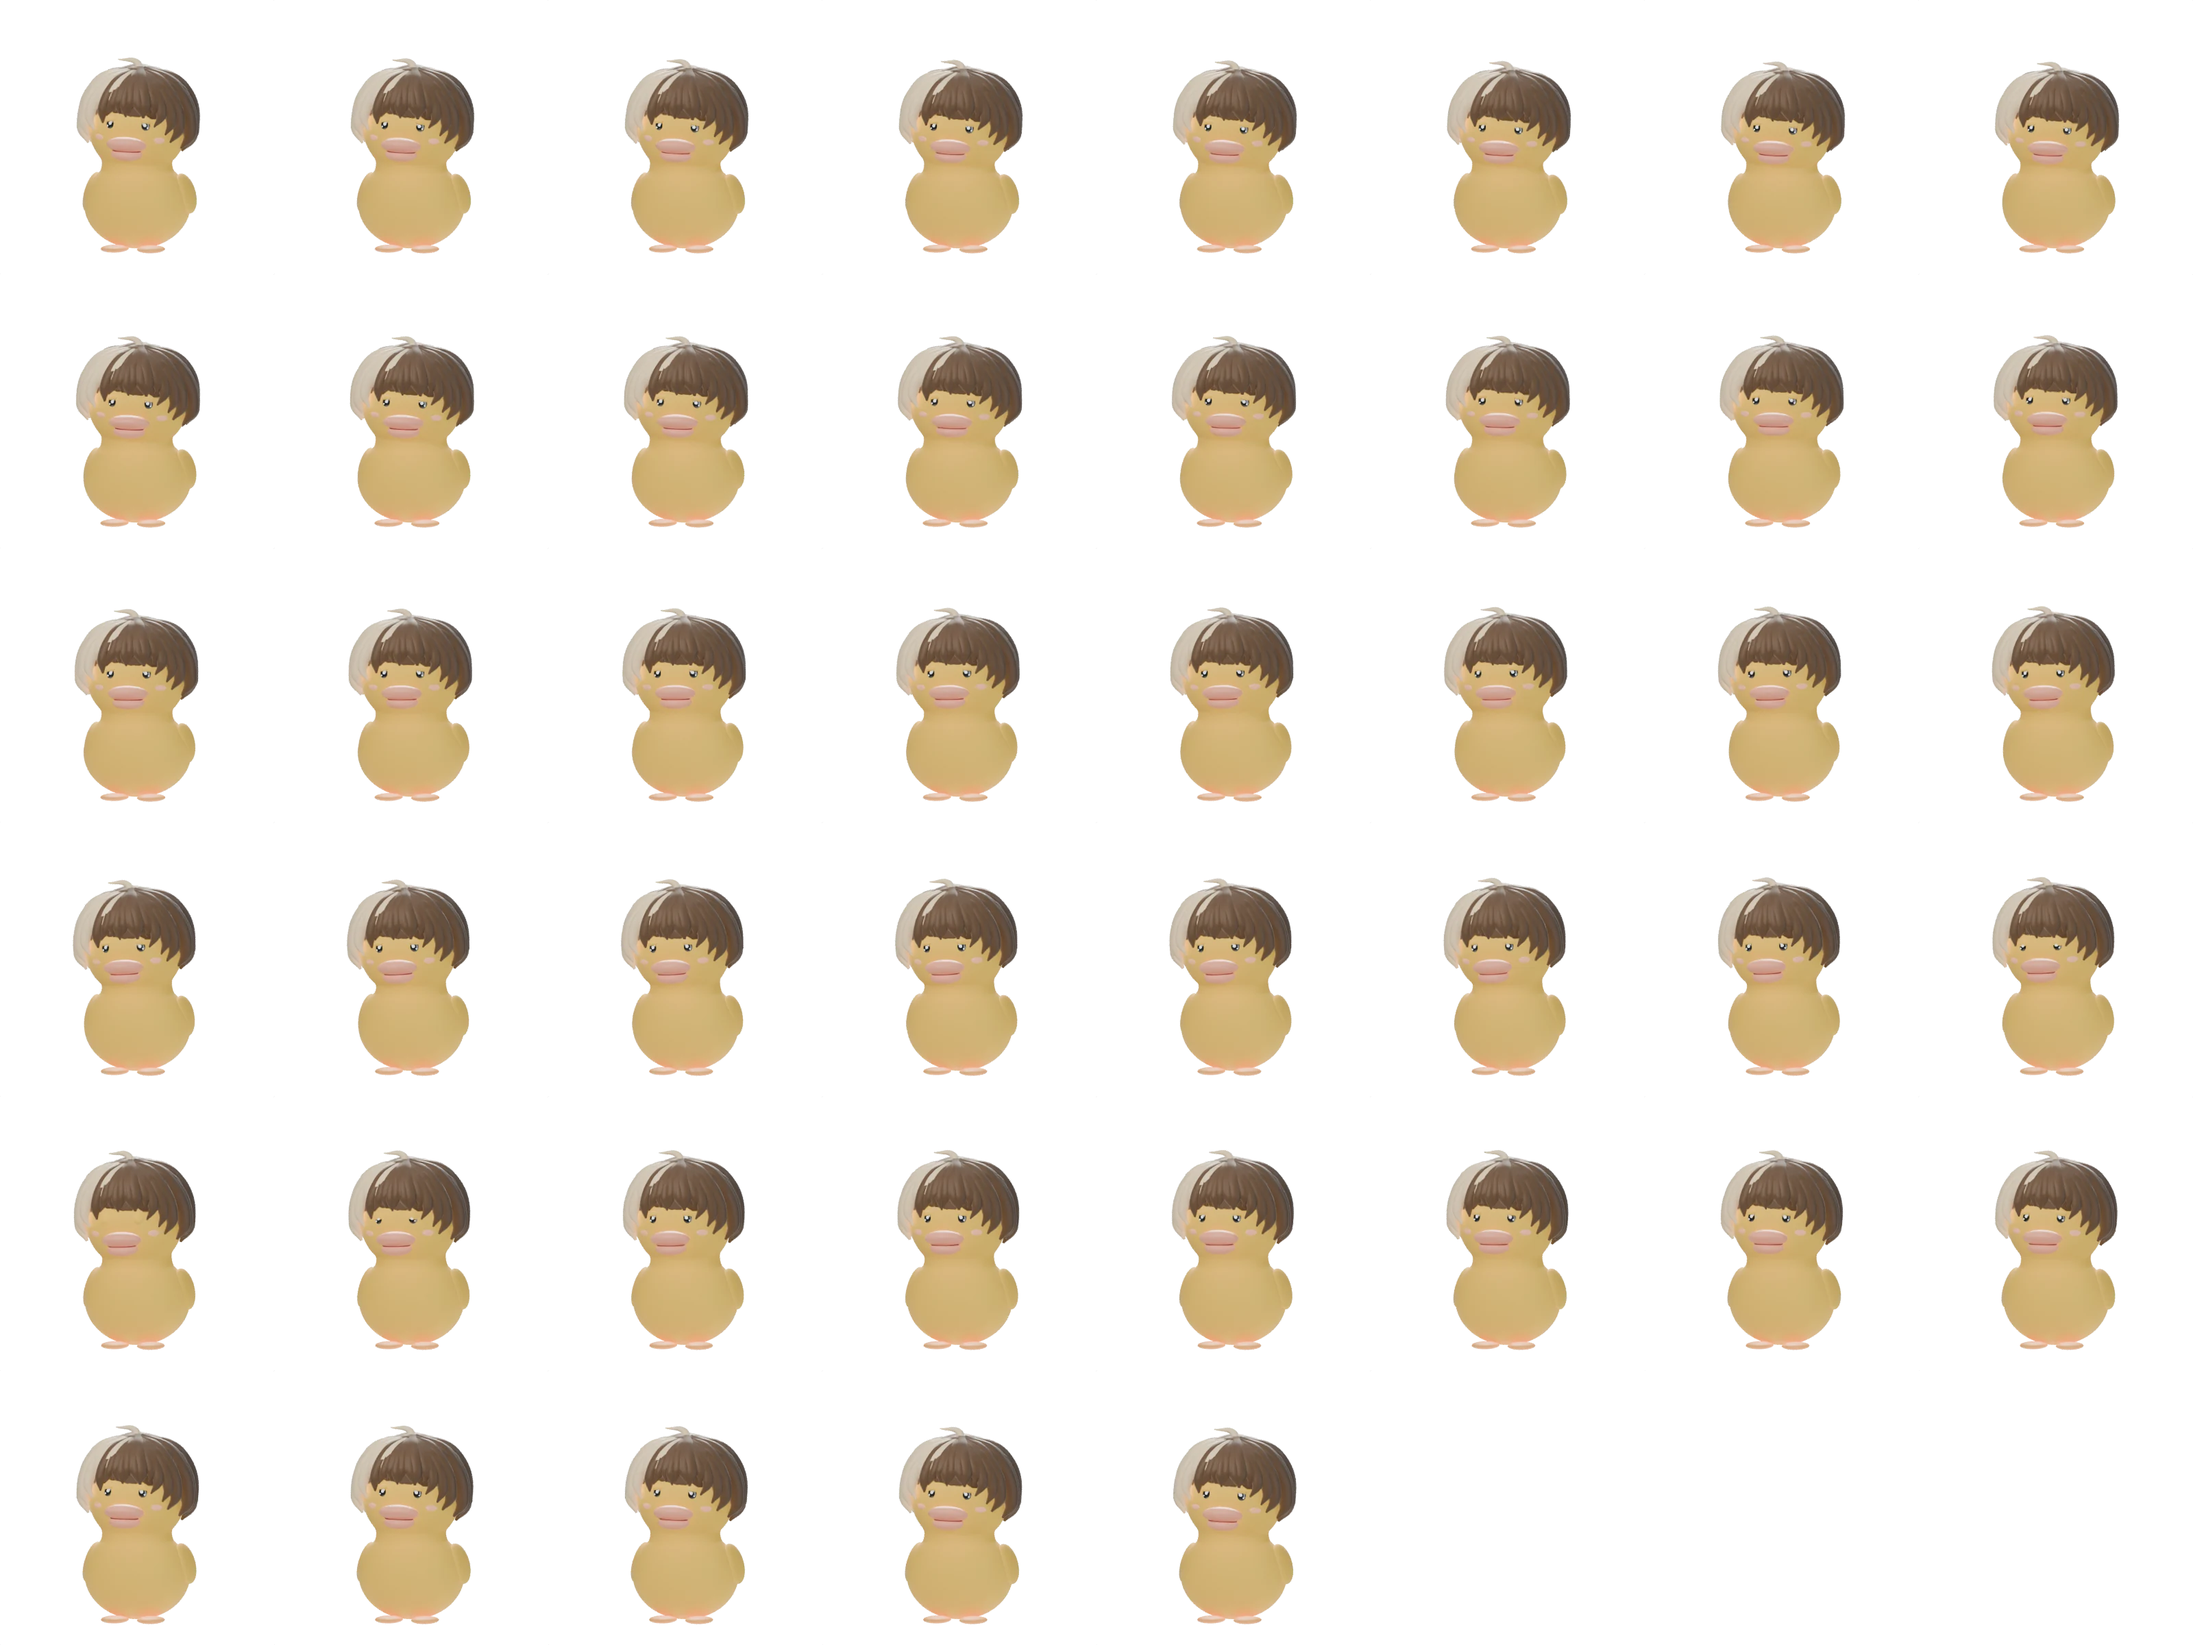
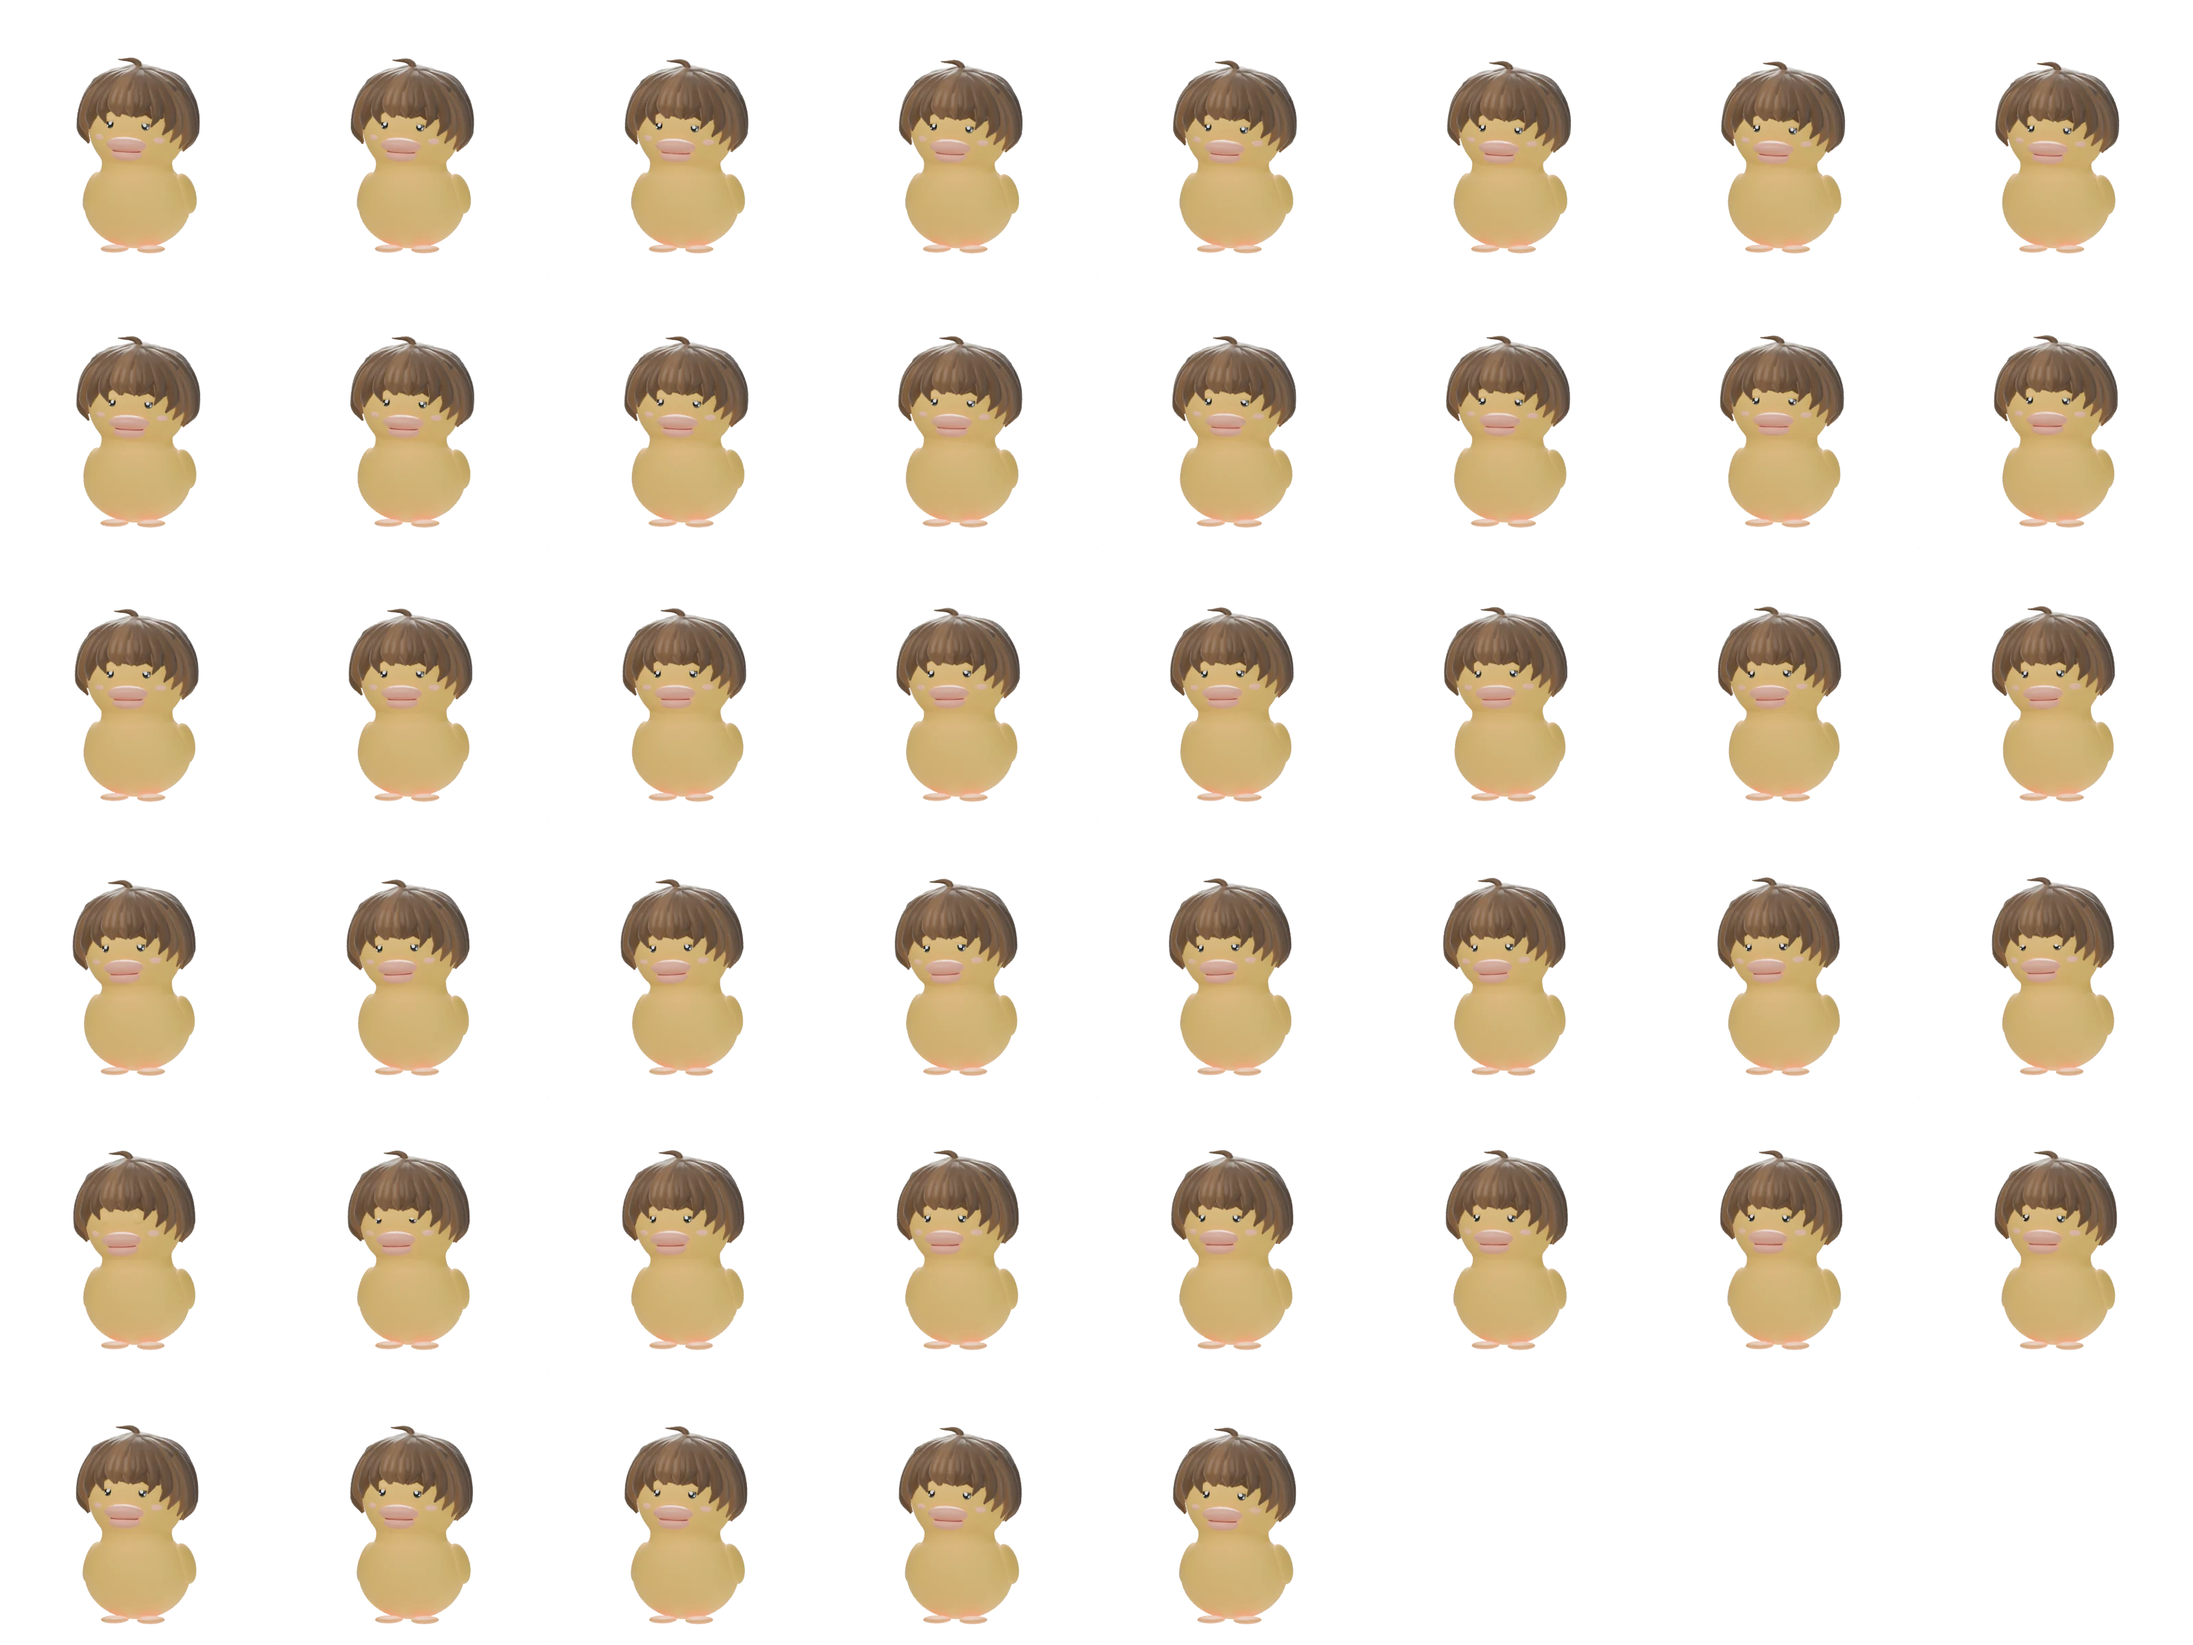
Host: brown hair, keep bubble and content clear of the right UI rail, duck on by default in brain

diff --git a/src/layout/frame.ts b/src/layout/frame.ts
@@ -46,17 +46,20 @@ const HORIZONTAL: Frame = {
   font: {h1: 104, h2: 58, body: 38, small: 28, caption: 46},
 };
 
-// With a host, the content area makes room for it. 9:16: the host stands bottom-left (the
-// right edge of a Short has the like/comment buttons) and the captions become its speech
-// bubble, above the band the Shorts UI covers. 16:9: bottom-right, the content narrower.
+// With a host, the content area makes room for it. 9:16: the host stands bottom-left and
+// the captions become its speech bubble, above the band the Shorts UI covers; content and
+// bubble stop at x 930, clear of the like/comment/share column that TikTok, Shorts and
+// Reels draw down the right edge. 16:9: bottom-right, the content narrower.
 function withHost(f: Frame, side?: 'left' | 'right'): Frame {
   if (f.format === 'vertical') {
     const size = 460;
     const left = side !== 'right';
     const x = left ? 10 : f.width - 10 - size;
     const y = 1572 - Math.round(size * 0.905); // feet just above the covered band
-    const bubble = left ? {x: x + size - 60, y: 1290, w: f.width - (x + size - 60) - 36, h: 250} : {x: 36, y: 1290, w: x + 60 - 36, h: 250};
-    return {...f, content: {...f.content, h: 900}, captions: bubble, host: {x, y, size, mirror: left, bubble}};
+    const rail = 930; // right edge of the area the platform buttons leave free
+    const bubble = left ? {x: x + size - 60, y: 1290, w: rail - (x + size - 60), h: 250} : {x: 60, y: 1290, w: x + 60 - 60, h: 250};
+    const content = {x: 60, y: f.content.y, w: rail - 60, h: 900};
+    return {...f, content, captions: bubble, host: {x, y, size, mirror: left, bubble}};
   }
   const size = 440;
   const right = side !== 'left';

diff --git a/src/spec/schema.ts b/src/spec/schema.ts
@@ -780,7 +780,8 @@ export const VideoSpec = z.object({
   // assistant: it talks with the voice (lip sync from the word timings), points at the
   // puzzle, thinks during the countdown, reacts to the answer and waves at the end.
   // In 9:16 the captions become its speech bubble. See docs/AUTHORING.md → "Host".
-  host: Host.optional(),
+  // On by default in the `brain` pack (the duck); `false` turns it off.
+  host: z.union([Host, z.literal(false)]).optional(),
 });
 
 export type VideoSpec = z.output<typeof VideoSpec>;

diff --git a/src/timeline/timeline.ts b/src/timeline/timeline.ts
@@ -149,7 +149,7 @@ export function buildTimeline(spec: VideoSpec, speech: Speech, opts: TimelineOpt
       Object.entries(spec.media ?? {}).map(([id, m]) => [id, {...m, src: opts.media?.[id]?.src ?? null, kind: opts.media?.[id]?.kind ?? null}]),
     ),
     news: spec.news ?? null,
-    host: spec.host ?? null,
+    host: spec.host === false ? null : (spec.host ?? (spec.pack === 'brain' ? {character: 'pato'} : null)),
     scenes,
   };
   return {timeline, warnings};

diff --git a/src/video/VideoFrame.tsx b/src/video/VideoFrame.tsx
@@ -302,7 +302,7 @@ const Bubble: React.FC<{items: React.ReactNode[]; groups: Group[]; gi: number; t
           alignContent: 'center',
           fontFamily: FONT.sans,
           fontWeight: 900,
-          fontSize: Math.round(frame.font.caption * 0.86),
+          fontSize: Math.round(frame.font.caption * 0.8),
           lineHeight: 1.16,
           textAlign: 'center',
         }}

diff --git a/characters/pato/pato_model.py b/characters/pato/pato_model.py
@@ -81,7 +81,8 @@ def build(seed=7):
         brillo=_mat("Brillo", (1, 1, 1), rough=0.2),
         rubor=_mat("Rubor", (1.0, 0.45, 0.30), rough=0.8, sss=0.2),
         pelo=_mat("Pelo", (0.10, 0.05, 0.022), rough=0.55, sheen=0.25),
-        mecha=_mat("Mechas", (0.90, 0.68, 0.40), rough=0.55, sheen=0.25),
+        # a second, slightly warmer brown mixed in at random: depth, not highlights
+        mecha=_mat("Pelo2", (0.16, 0.08, 0.032), rough=0.5, sheen=0.25),
         pata=_mat("Patas", (1.00, 0.45, 0.10), rough=0.5),
     )
     # the eye highlights show even where no light hits them
@@ -224,15 +225,14 @@ def build(seed=7):
         elif a < 70:  phi = 84 + (a - 30) * 0.6
         elif a < 120: phi = 112
         else:         phi = 118
-        rubio = -120 < th < -35 or th < -150
-        plan.append((th, phi, random.uniform(0.11, 0.15), M["mecha"] if rubio else M["pelo"]))
+        plan.append((th, phi, random.uniform(0.11, 0.15), M["mecha"] if random.random() < 0.3 else M["pelo"]))
     for th in range(-153, 181, 22):
-        plan.append((th, 60 + random.uniform(0, 12), 0.13, M["mecha"] if -110 < th < -20 else M["pelo"]))
+        plan.append((th, 60 + random.uniform(0, 12), 0.13, M["mecha"] if random.random() < 0.3 else M["pelo"]))
     for th in range(-35, 40, 10):
-        plan.append((th, 74 + random.uniform(-2, 2), 0.12, M["mecha"] if th < -20 else M["pelo"]))
+        plan.append((th, 74 + random.uniform(-2, 2), 0.12, M["mecha"] if random.random() < 0.3 else M["pelo"]))
     for i, (th, phi, w, m) in enumerate(plan):
         mechon(f"Mechon_{i:02d}", th, phi, w, m)
-    strand("Remolino", [surf(0, 10, 1.05), surf(-20, 5, 1.25), surf(-60, 20, 1.40)], [1, 0.8, 0.1], 0.07, M["mecha"])
+    strand("Remolino", [surf(0, 10, 1.05), surf(-20, 5, 1.25), surf(-60, 20, 1.40)], [1, 0.8, 0.1], 0.07, M["pelo"])
 
     # ------------------------------------------------ rig
     arm_d = bpy.data.armatures.new("Rig")

diff --git a/docs/AUTHORING.md b/docs/AUTHORING.md
@@ -766,7 +766,8 @@ and shows a trophy).
 ### `host` — an animated presenter in a corner
 
 `"host": {"character": "pato"}` at the top of the spec puts the duck presenter in a corner
-of the video, like the old Office assistant. Optional `"side": "left" | "right"` (default:
+of the video, like the old Office assistant. **Every `brain` video has it by default**;
+`"host": false` turns it off, and any other pack turns it on with the line above. Optional `"side": "left" | "right"` (default:
 left in 9:16, because the right edge of a Short has the like/comment buttons; right in 16:9).
 
 - **It acts out the video by itself** (`src/host/track.ts`): `puzzle` → points at the question
@@ -775,9 +776,10 @@ left in 9:16, because the right edge of a Short has the like/comment buttons; ri
   then talks; `proof` → points at the working; `score` → celebrates and waves; any other
   scene → talks while the voice talks; silence → `idle` (breathing, blinking).
 - **Lip sync** comes from the word timings: the beak opens and closes inside each word.
-- **Room for it:** in 9:16 the content area ends at y 1250 and the captions become the host's
-  speech bubble (bottom-left, above the band the Shorts UI covers); in 16:9 the content area
-  is 1430 px wide and the host stands bottom-right. Check the stills: a scene that was tight
+- **Room for it:** in 9:16 the content area is x 60–930, y 350–1250 and the captions become
+  the host's speech bubble (bottom-left, above the band the Shorts UI covers; nothing goes
+  under the like/comment/share column on the right edge); in 16:9 the content area is
+  1430 px wide and the host stands bottom-right. Check the stills: a scene that was tight
   before (a long `list`, a big `board`) may need fewer lines with a host.
 - **Per scene:** `"host": ["talk"]` uses that clip for the whole scene; `"host": ["point",
   "think"]` uses the first while the voice talks and the second in the silence after it.

diff --git a/skills/make-brain/SKILL.md b/skills/make-brain/SKILL.md
@@ -44,8 +44,8 @@ Talk to the user in Spanish. Narration and on-screen text in English (the channe
 `videos/brain/<id>.json` with `"pack": "brain"`, the format's theme, `"shape": "daily-puzzle"`,
 `"hook": "challenge"`, `notes` (verification + sources), `publish` (titles, description,
 `comment` = the CTA question, hashtags), `thumbnail` (2–6 words, a `number` sticker, brain
-icons) and `"host": {"character": "pato"}` (the duck presenter; it acts out each scene by
-itself, see `docs/AUTHORING.md` → "host"). Copy the closest example in `videos/brain/`.
+icons). The duck presenter is on by default in this pack (it acts out each scene by itself;
+`docs/AUTHORING.md` → "host"): look at it in the stills, nothing to write. Copy the closest example in `videos/brain/`.
 
 ## 4. Check and deliver
 

diff --git a/docs/packs/brain.md b/docs/packs/brain.md
@@ -115,11 +115,11 @@ score question excepted).
 
 ## 5. The host
 
-Episodes can have the duck presenter (`"host": {"character": "pato"}`; reference:
-`docs/AUTHORING.md` → "host"). It plays the game with the viewer: points at the question,
+Every episode has the duck presenter by default (no field needed; `"host": false` turns it
+off; reference: `docs/AUTHORING.md` → "host"). It plays the game with the viewer: points at the question,
 thinks during the countdown (looks suspicious in spot-the-mistake rounds), celebrates or is
 surprised at the reveal and waves at the score. In 9:16 the captions become its speech
-bubble. It is the channel's face, so keep it on every episode once you start using it.
+bubble. It is the channel's face: keep it on every episode.
 
 ## 5b. Icons
 
